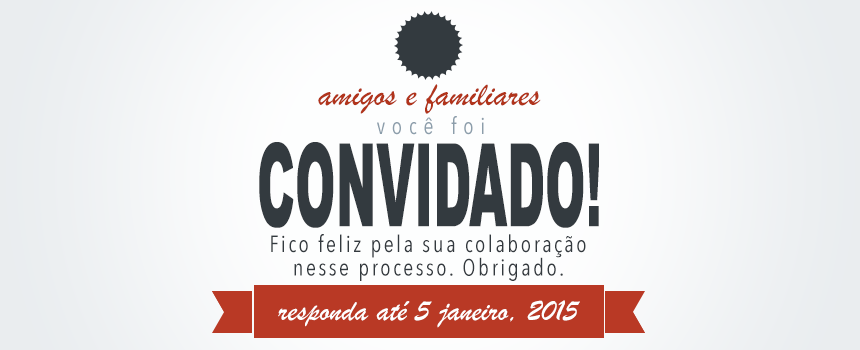
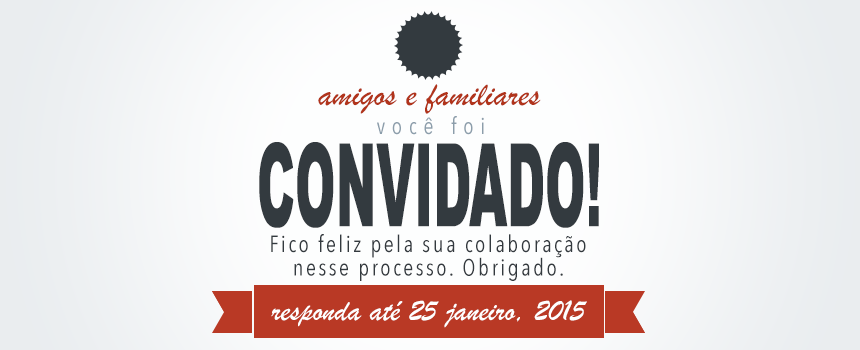
Flow form empty replies form, layout fe

Changed region(s): [[0.3023, 0.8571, 0.6953, 0.9429]]

diff --git a/main/templates/feedback360/home.html b/main/templates/feedback360/home.html
@@ -78,9 +78,10 @@
           <div class="menu-label"><a class="scrollTo" href="#thanks">Agradecimentos</a></div>
         </li>
       </ul>
+      <!--
       <div class="main-action">
-        <button id="start" class="btn-categories-noaction button large round">Começar!</button>
-      </div>
+        <button id="start" class="start-btn btn-categories-noaction button large round">Começar!</button>
+      </div> -->
       <!-- <div class="complement" style="margin-top:100">
         <p>Dica: Essa página não é responsiva. Será melhor visualizada no seu
         Mac ou PC. Poderá funcionar bem em um tablet.</p>
@@ -94,20 +95,16 @@
           <small class="img-credits">Fonte: http://www.k12hrsolutions.com/</small>
         </div>
         <div class="container-body">
-          <p>Se você chegou até aqui é bem provável que tenha recebido um convite meu porque
+          <p>Suas respostas vale muito mais do que um like. E se chegou até aqui é bem provável que tenha recebido um convite meu porque
           sua opinião é importante para o "nosso" desenvolvimento. "Nosso" porque quanto mais
           nossa rede de amigos se desenvolve mais evoluímos juntos!</p>
-          <p>Feedback é um neologismo que pode significar uma informação ou resposta que damos para alguém para
+          <p class="hide-for-small">Feedback é um neologismo que pode significar uma informação ou resposta que damos para alguém para
           que essa pessoa melhore, seja ela uma crítica negativa ou positiva. O que importa
           é que haja sinceridade.</p>
           <p>Um Feedback 360º ou Avaliação 360º nada mais é do que destacar pontos fortes e fracos do avaliado, neste caso eu. Um questionário de preenchimento rápido é apresentado para você responder. Nele estão
           contidas questões objetivas e direcionadas para que eu possa identificar comportamentos e competências que precisam ser melhoradas em mim.</p>
-
-          <!-- buscando conhecer se estou do ponto de vista dos meus pares andando na direção correta e onde posso corrigir. evitando verdeiras que
-          um grupo de pessoas escolhidas, pela sua <strong>integridade, confiabilidade e valor</strong>
-          dão a quem solicitou que neste caso sou eu.-->
           <p>Provavelmente eu e você nos relacionamos em algum momento especial e acredito que
-          é possível encontrar uma crítica, seja ela construtiva ou não, em um desses encontros. Veja <strong>Como Funciona</strong>
+          é possível encontrar uma crítica, seja ela construtiva ou não, em um desses encontros. Veja <a href="#howitworks" class="scrollTo">Como Funciona</a>
           um Feedback 360º.</p>
         </div>
       </article>
@@ -150,9 +147,11 @@
             <div id="panel3b" class="content">
               <h4>Respondendo a pesquisa</h4>
               <p>Ao clicar em <strong>Começar!</strong> um questionário será liberado com aproximadamente
-                5 perguntas. Responda com sinceridade e tente ser impessoal com vistas a uma maior objetividade e imparcialidade. Ao <strong>Enviar</strong> as respostas registro que a pesquisa foi
-                respondida e não há possibilidade de edição. Assim se você voltar para responder novamente receberá a mensagem de agradecimento.</p>
-                <p>Caso clique em <strong>Agora não</strong> ficarei no aguardo da sua resposta até o dia 5 janeiro de 2015. Após essa data é hora de consolidar as respostas</p>
+                5 perguntas. Responda com sinceridade e tente ser impessoal com vistas a uma maior
+                objetividade e imparcialidade. Após enviada as respostas não há possibilidade
+                de edição.
+                Assim se você voltar para responder novamente receberá a mensagem de agradecimento.</p>
+                <p>Caso clique em <strong>Agora não</strong> ficarei no aguardo da sua resposta até o dia 25 janeiro de 2015. Após essa data é hora de consolidar as respostas.</p>
             </div>
           </dd>
           <dd class="accordion-navigation">
@@ -200,9 +199,11 @@
             <div class="content" id="panel3">
               <h4>Respondendo a pesquisa</h4>
               <p>Ao clicar em <strong>Começar!</strong> um questionário será liberado com aproximadamente
-              5 perguntas. Responda com sinceridade e tente ser impessoal com vistas a uma maior objetividade e imparcialidade. Ao <strong>Enviar</strong> as respostas registro que a pesquisa foi
-              respondida e não há possibilidade de edição. Assim se você voltar para responder novamente receberá a mensagem de agradecimento.</p>
-              <p>Caso clique em <strong>Agora não</strong> ficarei no aguardo da sua resposta até o dia 5 janeiro de 2015. Após essa data é hora de consolidar as respostas</p>
+                5 perguntas. Responda com sinceridade e tente ser impessoal com vistas a uma maior
+                objetividade e imparcialidade. Após enviada as respostas não há possibilidade
+                de edição.
+                Assim se você voltar para responder novamente receberá a mensagem de agradecimento.</p>
+              <p>Caso clique em <strong>Agora não</strong> ficarei no aguardo da sua resposta até o dia 25 janeiro de 2015. Após essa data é hora de consolidar as respostas.</p>
             </div>
             <div class="content" id="panel4">
               <h4>Confidencialidade das respostas</h4>
@@ -214,6 +215,7 @@
           </div>
         </div>
      </article>
+     <button class="button calltoaction expand round start-btn">Começar!</button>
     </div>
     <div class="line-sep">&nbsp;</div>
     <div id="invited" class="big-section">
@@ -226,9 +228,10 @@
           de ouví-los cada vez mais. Porém em uma avaliação como essa é necessário analisar
           todas as respostas com cuidado. Por isso, para a Avaliação 360º atual escolhi, subjetivamente, 50 pessoas.</p>
           <p>Se você está nessa lista é porque acredito que sua opnião é importante. Fique tranquilo porque suas <strong>respostas são totalmente confidenciais, com a maior privacidade</strong>. Não existe possibilidade de conhecer quem respondeu o quê. Isso é um requisito básico desse tipo de avaliação. </p>
-          <p>Se está curioso sobre a implementação navegue até <strong>Dados Técnicos</strong> onde explico a arquitetura da solução.</p>
+          <p>Se está curioso sobre a implementação navegue até <a href="#deploy" class="scrollTo">Dados Técnicos</a> onde explico a arquitetura da solução.</p>
         </div>
      </article>
+     <button class="button calltoaction expand round start-btn">Entendi, Vamos começar!</button>
     </div>
     <div class="line-sep">&nbsp;</div>
     <div id="deploy" class="big-section">
@@ -237,20 +240,29 @@
         <div class="banner">
         </div>
         <div class="container-body">
-          <p>Uma das mais importantes condições da Avaliação 360º é manter a confidencialidade das respostas
-          porque fica claro que somos mais comedidos durante uma crítica, às vezes má interpretada. O anonimato revela coisas fascinantes.</p>
-          <p>Porém, é preciso sinceridade para que a avaliação produza o efeito desejado. Pense comigo:
-          você tem o poder de ajudar alguém, mas essa pessoa não aceita sugestões como você faria para resolver? Deixando um bilhete anônimo na mesa? Isso é uma ótima ideia e aqui é o local para isso!</p>
+          <p>Uma das mais importantes condições da Avaliação 360º é manter a confidencialidade das respostas.
+            O anonimato revela coisas fascinantes. Porém é preciso sinceridade para que a avaliação produza
+            o efeito desejado.</p>
           <h5>Confidencialidade</h5>
           <p>Como aprensetei na seção <strong><a class="scrollTo" href="#howitworks"> Como funciona</a></strong> escolhi determinadas pessoas com base
           em características como integridade, valores e comportamentos. Com essa lista de pessoas e suas contas sociais é possível conhecer quando ela está conectada aqui no Feedback 360º devido aos plugins sociais do Facebook, por exemplo. No entanto, essa condição não permite verificar o que está sendo respondido e por quem.</p>
           <h5>Persistência dos dados</h5>
-          <p>Na ato persistir as respostas, elas são separadas do autor (o convidado), sendo uma coleção de dados
-          com somente a identificação do participante (nome de usuário, email, url_avatar) e mais um campo <i>booleano</i> chamado "enviado" que armazena se o formulário foi submetido. Não há registro de data, hora, tão pouco é feita associação entre "chaves-primárias".</p>
-          <p>Já as respostas são dispostas em outra coleção com os campos correspondentes as 4 questões e o nível de proximidade, um tanto subjetivo, que o convidado tem de mim. Determinei valores de 1 a 3 onde quanto menor mais próximo e quanto maior mais distante. </p>
+          <p>Na operação de persistir as respostas, elas são separadas do autor (o convidado),
+            sendo uma coleção de dados
+          com os campos nome de usuário, email e um campo <i>booleano</i> chamado "enviado"
+          que armazena se o formulário foi submetido. Não há registro de data, hora,
+          tão pouco é feita associação entre "chaves-primárias".</p>
+          <p>Já as respostas são dispostas em outra coleção com os campos correspondentes
+            as questões e o nível de proximidade, um tanto subjetivo,
+            que o convidado tem de mim. Determinei valores de 1 a 3 onde quanto menor
+             mais próximo e quanto maior mais distante. </p>
         </div>
         <h5>Ferramentas utilizadas</h5>
-        <p>As ferramentas utilizadas para produzir esse conteúdo são de <a href="http://pt.wikipedia.org/wiki/C%C3%B3digo_aberto" target="_blank">código aberto</a>, assim como esse próprio blog que você está acessando. Para utilizar essa aplicação como o seu blog pessoal clone o repositório: <a href="https://bitbucket.org/horacioibrahim/hipy/wiki/Home" target="_blank">blog hipy</a>.</p>
+        <p>As ferramentas utilizadas para produzir esse conteúdo são de
+          <a href="http://pt.wikipedia.org/wiki/C%C3%B3digo_aberto" target="_blank">código aberto</a>,
+          assim como esse próprio blog que você está acessando. Para utilizar essa
+          aplicação como o seu blog pessoal clone o repositório:
+          <a href="https://github.com/horacioibrahim/hipy" target="_blank">blog hipy</a>.</p>
         <p>Nessa <i>stack</i> temos:<br>
         <ul>
           <li>Python 2.7.6 - <a href="https://www.python.org/" target="_blank">Site Oficial</a></li>
@@ -260,6 +272,7 @@
         </ul>
         </p>
      </article>
+     <button class="button calltoaction expand round start-btn">Agora que você chegou até os fontes. Podemos começar!</button>
     </div>
     <div class="line-sep">&nbsp;</div>
     <div id="thanks" class="big-section">
@@ -333,7 +346,7 @@
   $(document).foundation('tab', 'reflow');
 </script>
 <script>
-  $( "#start" ).click(function() {
+  $( ".start-btn" ).click(function() {
     $(this).animate({
       opacity: 0
     }, 100, function() {

diff --git a/main/templates/feedback360/replies.html b/main/templates/feedback360/replies.html
@@ -3,6 +3,7 @@
 
 {% block content %}
 <!-- Form to add invite -->
+<div class="application">
     <h1>Respostas</h1>
     <p class="lead">
     Você e dezenas de pessoas contribuem, agora, para o nosso desenvolvimento
@@ -18,7 +19,7 @@
     <div class="panel callout radius">
         <p>Suas respostas não são associadas a você. Por isso, esse formulário
         somente pode ser respondido uma vez. Tudo ou nada!
-        (<a href="https://github.com/horacioibrahim/hipy/blob/master/feedback360/models.py#L174-L181" target="_blank">código-fonte
+        (<a href="https://github.com/horacioibrahim/hipy/blob/master/feedback360/models.py#L210-L216" target="_blank">código-fonte
          </a>)
         </p>
     </div>
@@ -27,22 +28,30 @@
     <p>
     {% csrf_token %}
     {% for ask in participant.get_enunciation %}
-        <label for="id_reply"><strong>{{ ask }}</strong></label>
+        <label class="title" for="id_reply"><strong>{{ ask }}</strong></label>
         {% if ask.reply_type == 0 %}
         <textarea cols="40" id="id_reply" name="reply_{{ ask.pk }}" rows="10"></textarea>
         {% else %}
+          <ul class="small-block-grid-1 medium-block-grid-3 large-block-grid-3">
           {% for reply_accepted in ask.reply_accepted %}
-              <input type="{% if ask.reply_type == 1 %}radio{% else %}checkbox{% endif %}" name="reply_{{ ask.pk }}" value="{{ reply_accepted }}" >
-              <label>{{ reply_accepted }}</label>
+          <li><label>
+                <input type="{% if ask.reply_type == 1 %}radio{% else %}checkbox{% endif %}" name="reply_{{ ask.pk }}" value="{{ reply_accepted }}" >
+                &nbsp;{{ reply_accepted }}
+              </label>
+          </li>
           {% endfor %}
+          </ul>
         {% endif %}
         <input type="hidden" name="social_name" value="{{ participant.name }}" />
+        {% if ask.reply_type != 0 %}
+        <hr />
+        {% endif %}
     {% endfor %}
     </p>
     <p>
     <a href="/" class="button secondary radius">Responder mais tarde...</a>
     <input type="submit" class="button radius" value="Enviar">
     </p>
-    </form>
-
+  </form>
+</div>
 {% endblock %}

diff --git a/assets/feedback360/base.css b/assets/feedback360/base.css
@@ -31,6 +31,13 @@
     #feedback .logo .logo-2 {
       background-color: red;
       width: 70px; }
+  #feedback button.calltoaction {
+    margin-top: 25px;
+    box-shadow: 0px 3px 1px #16A085;
+    background: none repeat scroll 0% 0% #40D47E; }
+  #feedback button.calltoaction:hover {
+    box-shadow: 0px 3px 1px #16A085;
+    background: none repeat scroll 0% 0% #20C663; }
   #feedback .main-content .menu-content {
     color: #AAA;
     background: #1d1e19;
@@ -192,6 +199,12 @@ header {
     header .logo img {
       width: 110px; }
 
+.application #form-replies label {
+  font-size: 1.2em; }
+.application #form-replies .title {
+  font-size: 1.2em;
+  line-height: 1.6em;
+  margin-bottom: 28px; }
 .application .invite {
   padding: 15px 15px 6px 15px;
   background-color: #F1F1F1;
@@ -224,6 +237,8 @@ header {
       margin-top: -3.0em; }
     #feedback .main-content .general-content #howitworks h1 {
       margin-bottom: 60px; }
+    #feedback .main-content .general-content #howitworks .post {
+      margin-bottom: 40px; }
 
   .banner {
     -o-background-size: 590px auto !important;

diff --git a/assets/feedback360/base.scss b/assets/feedback360/base.scss
@@ -45,6 +45,18 @@ $menu-left-font-color: #AAA;
 	.action-step1-login {
 
 	}
+
+  button.calltoaction {
+    margin-top: 25px;
+    box-shadow: 0px 3px 1px #16A085;
+    background: none repeat scroll 0% 0% #40D47E;
+  }
+
+  button.calltoaction:hover {
+    box-shadow: 0px 3px 1px #16A085;
+    background: none repeat scroll 0% 0% #20C663;
+  }
+
 	.main-content {
 		.menu-content {
 			color: #AAA;
@@ -257,6 +269,16 @@ header {
 }
 
 .application {
+  #form-replies {
+    label {
+      font-size: 1.2em;
+    }
+    .title {
+      font-size: 1.2em;
+      line-height: 1.6em;
+      margin-bottom: 28px;
+    }
+  }
   .invite {
     padding: 15px 15px 6px 15px;
     background-color: #F1F1F1;
@@ -309,6 +331,9 @@ header {
     #howitworks {
       h1 {
         margin-bottom: 60px;
+      }
+      .post {
+        margin-bottom: 40px;
       }
     }
   }

diff --git a/main/templates/feedback360/facebook_snippet.html b/main/templates/feedback360/facebook_snippet.html
@@ -24,6 +24,7 @@
     });
   }
 
+
   window.fbAsyncInit = function() {
   FB.init({
     appId      : '1433803006869179',
@@ -64,6 +65,11 @@
   // successful.  See statusChangeCallback() for when this call is made.
   function solve(response) {
       var $accessToken = response.authResponse.accessToken;
+      /*
+      FB.getLoginStatus(function(response) {
+      console.log(response.authResponse.accessToken);
+    });
+    */      
       var $form = $('form[name=form-fb]');
       var $access_token = $form.find('input[name="access_token"]');
       $access_token.val($accessToken);

diff --git a/feedback360/views.py b/feedback360/views.py
@@ -4,6 +4,8 @@ from django.shortcuts import render, redirect
 from django.contrib.auth.decorators import login_required
 from django.contrib import messages
 from django.core.urlresolvers import reverse
+from django.core.exceptions import ValidationError
+from django.forms.forms import NON_FIELD_ERRORS
 from django.http import HttpResponse, Http404
 from django.utils.translation import ugettext_lazy as _
 from mongoengine import DoesNotExist, NotUniqueError
@@ -98,11 +100,18 @@ def replies(request, social_name=None):
                                             "applicable for you.")
 
                     # Receives askid, proximity and reply for each reply
-                    # but the form submit reply_askid, social_name.
-                    doc = models.Replies(**{'ask': askid,
+                    # but the form submit only reply_askid, social_name.
+                    is_empty = filter(None, values)
+                    if is_empty:
+                        doc = models.Replies(**{'ask': askid,
                                     'proximity': participant.proximity,
                                                         'reply': values})
-                    replies_for_bulk.append(doc)
+                        replies_for_bulk.append(doc)
+                    else:
+                        messages.error(request,
+                        _('Existem uma ou mais perguntas sem resposta(s).'))
+                        return render(request, 'feedback360/replies.html',
+                                    dict(participant=participant))
 
             resp = models.Replies.objects.insert(replies_for_bulk)
             participant.sent_replies = True
@@ -110,11 +119,10 @@ def replies(request, social_name=None):
             return thanks_for_replies(request)
 
         else:
-            form = forms.RepliesForm()
-
+            pass
 
     return render(request, 'feedback360/replies.html',
-                  dict(form=form, participant=participant, empty=empty))
+                  dict(participant=participant))
 
 def thanks_for_interest(request):
     return render(request, 'feedback360/thanks_for_interest.html')

diff --git a/feedback360/forms.py b/feedback360/forms.py
@@ -54,9 +54,5 @@ class AsksForm(DocumentForm):
         return data
 
 
-class RepliesForm(DocumentForm):
-    reply = CharField(widget=forms.Textarea)
-
-    class Meta:
-        model = models.Replies
-        fields = ['reply', 'ask', 'proximity']
+class RepliesForm(forms.Form):
+    wrapform = forms.CharField(max_length=120)
